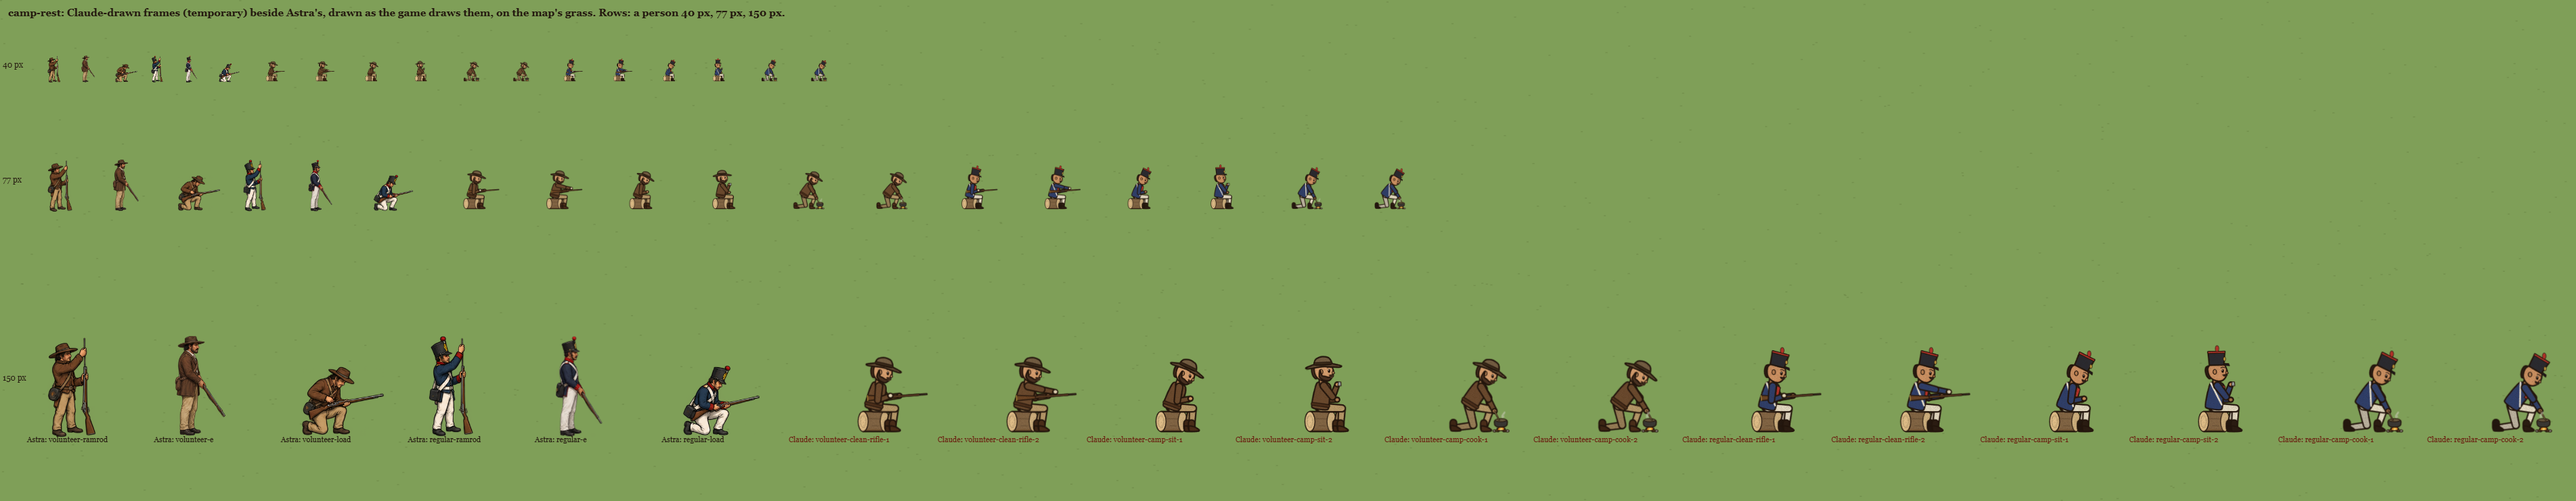
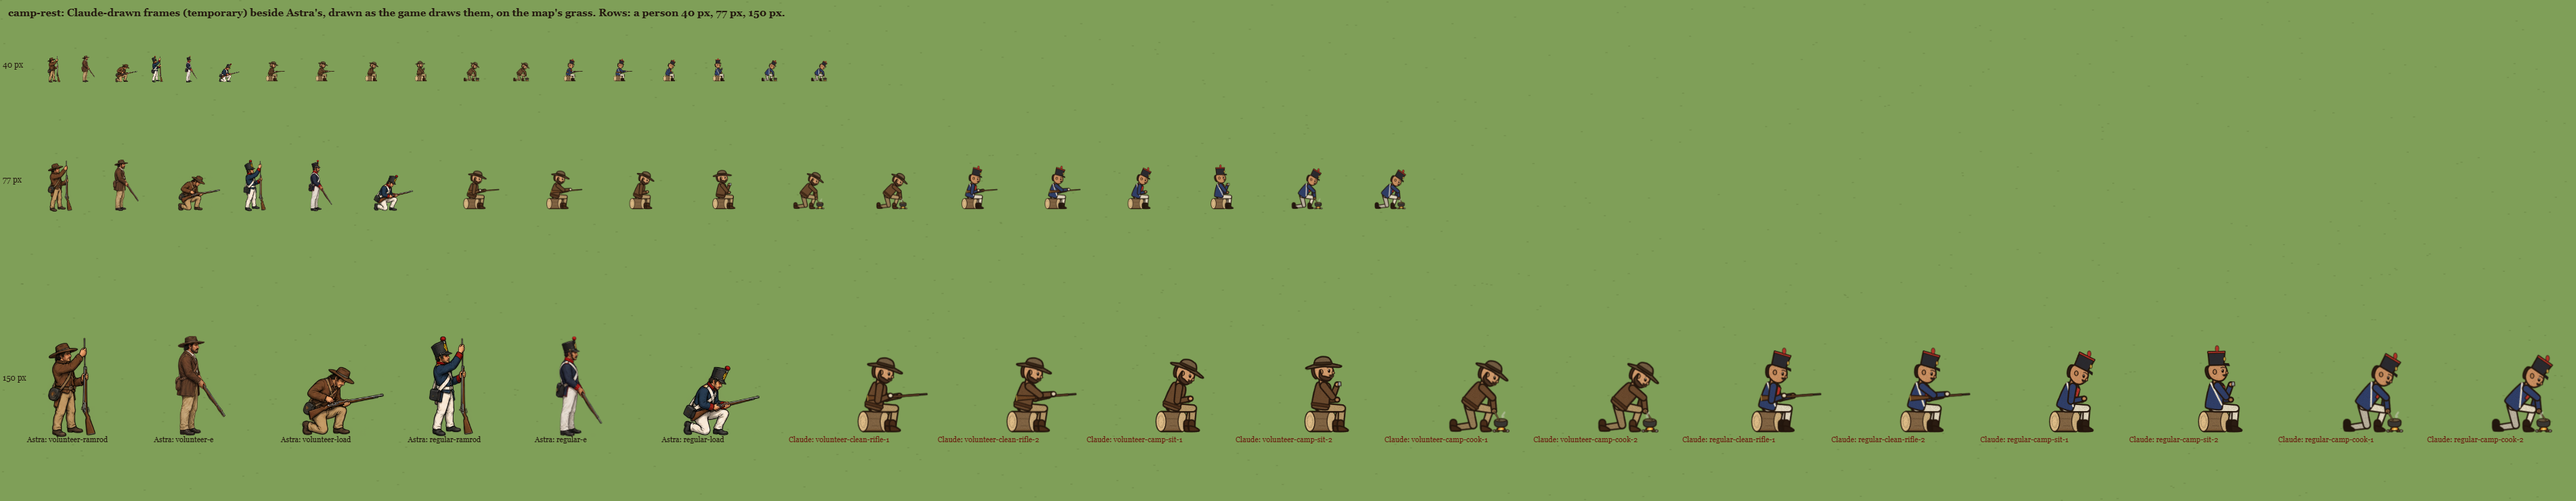
HANDOFF: area A (not released); focused compare sheets and moving previews

diff --git a/HANDOFF.md b/HANDOFF.md
@@ -1,5 +1,45 @@
 # Claude handoff — Astra foundation
 
+## Area A of Claude's temporary art: people at work and ambient poses — owner, 2026-09-28 (worktree branch; not released)
+
+**The ask.** Owner, 2026-09-28: *"make all of the remaining art. yours will be temporary. label yours so astra can replace as
+it makes the final versions."* and *"make sure the chop swings look natural"*. Area A of docs/CLAUDE_ART_PLAN.md, less the chop
+(the foundation's). Everything here is Claude-drawn and temporary; Astra's frame or clip of the same name replaces each.
+
+- **Drawn, for all eight grown cast figures** (modules in `scripts/claude-art/areas/`, `AREA: 'work'`; kit additions
+  `kit/work-poses.mjs`, `kit/work-props.mjs`): ambient `-whittle`, `-mend-harness`, `-sew`, `-shell-corn`, `-clean-rifle`,
+  `-pipe`, `-cards` (seated on a stool, 2), `-wash` (kneeling, 2), `-sweep` (4), `-carry-water` (4) — `ambient.mjs`; work
+  `-split`, `-dig`, `-dig-well` (the foundation's six-frame natural swings, with the log and wedge, the cut in the ground, or the
+  well's hole drawn where the tool lands), `-notch` (4), `-lift` (2), `-reap` (4), `-carpentry` (4), `-aim` (1), `-fire` (the aim
+  held, the recoil, the lowering), `-fish`, `-gather`, `-butcher` (no carcass, no blood), `-guard`, `-stake`, `-tend-fire` (2),
+  `-drill` (4) — `work.mjs`; `volunteer-`/`regular-` `-clean-rifle`, `-camp-sit`, `-camp-cook` — `camp-rest.mjs`; `fx-wood-chips`,
+  `fx-earth-toss`, `fx-dust`, `fx-shavings`, `fx-ripple` (3 each) and `tree-fall` (4) — `work-fx.mjs`; `washtub`,
+  `woodpile-frontier`, `hens-pecking` — `yard-props.mjs`. 635 frames and 221 clips; the people sheets at 0.6 scale.
+- **Measured size.** Astra draws a seated, kneeling or crouching cast figure to fill the row as a standing one (her `-repair`,
+  `-rest`, `-care`, `-sow` stand 0.87-0.95 of the logical height; measured from her atlas), so area A's seated and kneeling cast
+  frames are drawn at `SIT_SCALE` 1.3 (their tops 0.82-0.9). Her military sheets are not normalised that way, so the soldiers are not.
+- **In the game.** `STROKES.<stroke>.drawn` in public/work-art.js for split, notch, dig, grub, the well (`well`, a stroke of
+  its own for `dig-well`), reap, whittle, shoot, the shot, fish, gather, butcher, drill, guard, pace (the staking) and fire,
+  per figure through `clipReady`, the canvas stand-in kept until the sheet loads; `drawnStroke` also drops `cycleMs`/`reach` and
+  carries `at`/`muzzle`/`ownFire` so the effect comes from the drawn frame. Effects: `EFFECTS[*].sheet`, drawn by
+  `drawWorkLayer` through app.js `workEffect`, the canvas marks until they load. Ambient: `AMBIENT_DRAWN` (motion.js) and
+  `ownClip` (app.js) by `amb.a`, the server's delivered pose kept as the fallback. Soldiers: `SOLDIERS_AT_REST` (ambient.js,
+  `base` the delivered pose), sitting and cooking added to both camps in sim/ambient.mjs. Props: `propItem`. `tree-fall`: when the
+  felling's words move on from the felling (as audio-cues.js hears it), `treesFalling` in app.js.
+- **Checks.** `tests/claude-work-poses.test.mjs` (5): feet planted where the work does not walk (a foot may lift, never slide),
+  every hand a pose places reached by its arm - which found hands left in the air in gather, lift, wash, tend-fire, aim and fire
+  and the soldiers' rag and spoon, now fixed - the ambient clips and the page asking for them, the effect sheets replacing the
+  marks, the soldiers' clips. `npm run test:claude-art`: five new injections, each caught by its test only.
+- **Looking.** `node scripts/claude-art/preview-poses.mjs <module> [figure]` renders each clip moving beside Astra's nearest
+  (docs/evidence/claude-art/preview-<module>.apng, `-strip.png` every 200 ms at 77 px, `-onion.png`, `-frames.png` at 200 px);
+  `npm run art:compare -- <module> --match <regex>` keeps a module of hundreds of frames to a readable sheet.
+- **Honest limits.** At a person 40 px the work reads as work and the figures as the same people; at 77 px the tools, the
+  stool, the tub and the fire read; at 150 px it is plainly the rig's simpler hand - thin even limbs, arms that fold in front of
+  the body, small props. Two-frame loops (whittle, sew, harness) move one hand a little, as hers do, so they read more by prop
+  than by motion. `-lift` jumps from the ground to the shoulder in its two frames, as the contract asks. The staking is drawn for
+  the whole of "pacing out and staking" (a `ceiling:`); every felled tree falls as the one hardwood drawing (a `ceiling:`).
+  Not done in area A: A12 (the Gonzales scenes: `-paint-seated`, `-forge`, `-point`, `forge-anvil`) and A18 (layered people).
+
 ## Claude's temporary art: the foundation and the plan — owner, 2026-09-28 (worktree branch; not released)
 
 **The ask.** Owner, 2026-09-28: *"Astra wrote this so that you can help make art. make all of the remaining art. yours will be
